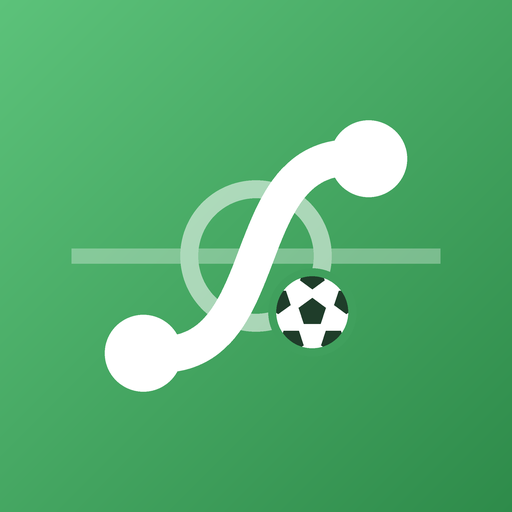
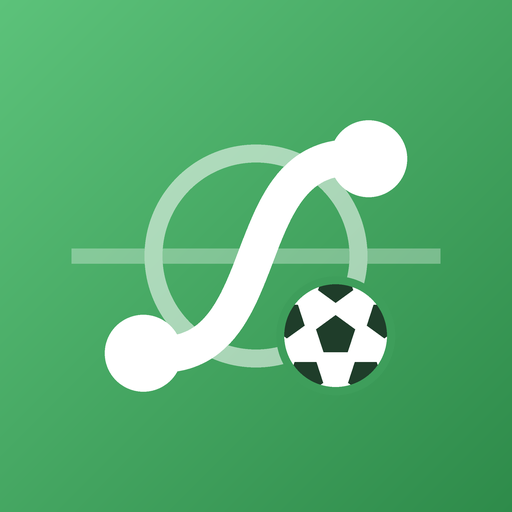
[edit]アイコンの Q（センターサークルとボール）を大きくする（サークル半径 13→20、ボール 7→10）。OGP も書き出し直す

Changed region(s): [[0.4062, 0.3438, 0.7812, 0.7812], [0.2812, 0.2812, 0.5938, 0.6562]]

diff --git a/tools/icon.py b/tools/icon.py
@@ -34,9 +34,9 @@ S_PATHS = (((72, 31), (44, 27), (56, 73), (28, 69)),)
 S_WIDTH = 7
 PLAYER_R = 7.5
 FAINT = 0.32  # ピッチの線の濃さ
-CIRCLE = (50, 50, 13)  # センターサークル（中心 x, y, 半径）
+CIRCLE = (50, 50, 20)  # センターサークル（中心 x, y, 半径）。Q の輪なので大きめに（ほかのツールの Q とつり合う大きさ）
 CIRCLE_ALPHA = 0.55  # サークルはハーフウェーラインより濃く（ボールと合わせて Q に見せる）
-BALL = (61, 61, 7)  # ボール：サークルの右下（45°）のふちに重ねる＝Q のしっぽ
+BALL = (65.56, 65.56, 10)  # ボール：サークルの右下（45°）のふちに重ねる＝Q のしっぽ（中心はサークルの線の少し外：(20 + 2) × cos45°）
 BALL_INK = (31, 61, 42)  # ボールの模様
 
 
